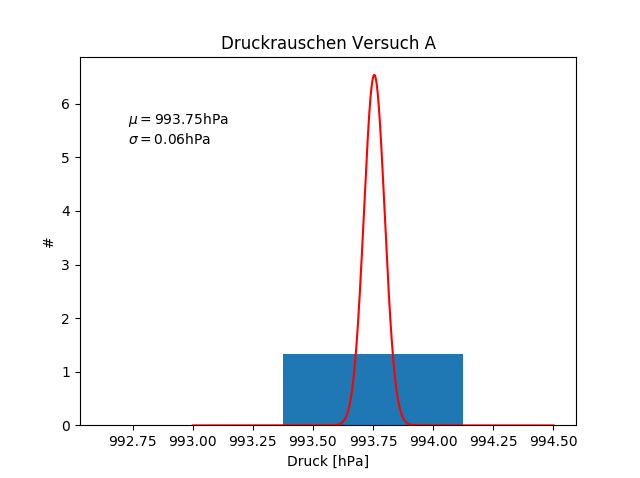
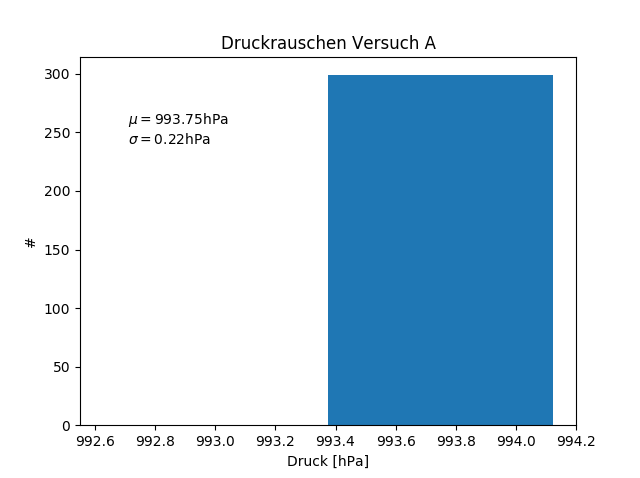
Update Rauschmessung, Kalibration

diff --git a/Thermodynamik/Dampfdruckkurve.tex b/Thermodynamik/Dampfdruckkurve.tex
@@ -74,9 +74,12 @@ Im Hauptversuch wird bei geöffnetem Auslass das Wasser im Glaskolben bis zum Si
 Am Ende des Messvorgangs lässt man das Wasser weiter bis auf Raumtemperatur abkühlen und führt gegebenenfalls eine zweite Dichtigkeitsmessung durch, um sich davon zu überzeugen, dass die Undichtigkeit des Aufbaus während des Versuchs nicht gestiegen ist. 
 
 \section{Versuchsauswertung}
+Der Versuch wurde von zwei Teilgruppen unabhängig voneinander durchgeführt. Im folgenden werden diese mit "Versuch A" und "Versuch B" bezeichnet und einzeln ausgewertet 
+
 \subsection{Versuch A}
 
 \subsubsection{Rauschmessung}
+
 \begin{figure}[H]
 \includegraphics[scale=0.5]{Bilder/DruckrauschenA}
 \includegraphics[scale=0.5]{Bilder/TemprauschenA}
@@ -84,13 +87,13 @@ Am Ende des Messvorgangs lässt man das Wasser weiter bis auf Raumtemperatur abk
 \label{fig:RauschenA}
 \end{figure}
 
-\begin{table}
+\begin{table}[H]
 \begin{center}
 \begin{tabular}{|c|c|c|}
 \hline
 - & $\mu$ & $\sigma$\\
 \hline
-Druck & 993.75 & 0.006\\
+Druck & 993.75 & 0.22\\
 \hline
 Temperatur & 2.12 & 0.12\\
 \hline
@@ -100,10 +103,17 @@ Temperatur & 2.12 & 0.12\\
 \end{center}
 \end{table}
 
-Die Ergebnisse der Rauschmessungen sind in Abb. \ref{fig:RauschenA} und Tab. \ref{tab:RauschenA} dargestellt.
+Die Ergebnisse der Rauschmessungen sind in Abb. \ref{fig:RauschenA} und Tab. \ref{tab:RauschenA} dargestellt.\\
+Dabei wurde der Fehler auf das Druckrauschen durch eine Gleichverteilung bestimmt:
+\begin{equation}
+\sigma_p =\dfrac{0.75}{\sqrt{12}} = 0.22hPa
+\end{equation}
+
+Der Fehler auf die Temperatur folgt aus der Gaußverteilung als Standardabweichung.
+
 
 \subsubsection{Kalibrierung des Temperatursensors}
-Bei jeweils 0C und 100C wurde eine Rauschmessung der Temperatur durchgeführt. Die Ergebnisse sind in Tabelle \ref{tab:KaliA} aufgeführt.
+Bei jeweils 0C und 100C wurde eine Rauschmessung der Temperatur durchgeführt. Da am Versuchstag nicht Normaldruck, sondern ein Druck von 1005hPa geherrscht hat, muss die Siedetemperatur noch auf 99.72C korrigiert werden. Die Ergebnisse sind in Tabelle \ref{tab:KaliA} aufgeführt. Die angegebenen Fehler sind die Fehler des Mittelwertes.
 
 \begin{table}[H]
 \begin{center}
@@ -111,9 +121,9 @@ Bei jeweils 0C und 100C wurde eine Rauschmessung der Temperatur durchgeführt. D
 \hline 
 $T_{erwartet}[C]$ & $T_{gemessen}[C]$ \\ 
 \hline 
-$0$ & $2.12\pm0.12$ \\ 
+$0$ & $2.121\pm0.007$ \\ 
 \hline 
-$100$ & $99.39\pm0.14$ \\ 
+$99.72$ & $99.39\pm0.01$ \\ 
 \hline 
 \end{tabular}
 \caption[Ergebnisse Kalibrierung A]{Ergebnisse Kalibrierung A} 
@@ -133,17 +143,34 @@ Anmerkung: Die Fehler auf den Messungen sind sehr klein und deswegen hier nicht 
 \end{figure}
 
 
-Die Kalibrierung (Abb.\ref{fig:GeradeKaliA}) hat eine Steigung von $1.028\pm 0.002$ und einen Offset von $-2.1801\pm 0.005$.\\
+Die Kalibrierung (Abb.\ref{fig:GeradeKaliA}) ergibt für die Steigung:
+\begin{equation}
+m = \dfrac{99.72}{T_{Eis}-T_{siedend}} = 1.0252
+\end{equation}
+
+\begin{equation}
+\sigma_{m} = m\cdot \sqrt{(\dfrac{\sigma_{T_{siedend}}\cdot 99.72}{(T_{siedend}-T_{Eis})^{2}})^{2}+(\dfrac{\sigma_{T_{Eis}}\cdot 99.72}{T_{siedend}-T_{Eis}})^{2}} = 0.0001
+\end{equation}
+
+\begin{equation}
+b = 99.72-m\cdot T_{siedend} = -2.1740C
+\end{equation}
+
+\begin{equation}
+\sigma_{b} = \sqrt{(\dfrac{\sigma_{m}}{m})^{2}+(\dfrac{\sigma_{T_{siedend}}}{T_{siedend}})^{2}} = 0.0003C
+\end{equation}
+
+
 Damit können die wirklichen Temperaturen berechnet werden:
 \begin{equation}
-T_{erwartet}=1.028\cdot T_{gemessen}-2.1801C
+T_{erwartet}=1.0252\cdot T_{gemessen}-2.1740C
 \end{equation}
 
 Aus der Fehlerfortpflanzung folgt der Fehler auf die Temperatur:
 \begin{equation}
-\sigma_{T}=\sqrt{\sigma_{m}^{2}+\sigma_{b}^{2}}=0.005
+\sigma_{T}=\sqrt{\left(m\cdot T_{gemessen}\cdot \sqrt{ (\dfrac{\sigma_m}{m})^{2}+(\dfrac{\sigma_T}{T})^{2}}\right)^{2}+\sigma_{b}^{2}}=0.13
 \end{equation}
-Dieser Fehler ist so klein, dass man ihn ignorieren kann.
+Wobei $\sigma_T = 0.12$ und eine Temperatur von 100C angenommen wurde.
 
 \subsubsection{Dichtigkeitsmessung}
 Eine sehr wichtige Voraussetzung für sinnvolle Ergebnisse ist, dass die Messapparatur dicht ist. Die Daten aus dem in Abschnitt \ref{sec:Aufbau und Durchfühung} erklärten Messverfahren vor dem Hauptversuch sind in Abbildung \ref{fig:DichtigkeitA} und die zugehörigen Residuen in Abbildung \ref{fig:ResiduenDichtigkeitA} zu sehen. Das Muster, dass sich in den Residuen zeigt, ist bedingt durch das Auflösungsvermögen des Drucksensor, welches eindrucksvoll anhand der Stufenform des Plots der Rohdaten zu sehen ist. \\
@@ -274,7 +301,7 @@ Es ist deutlich zu erkennen, dass die gemessenen Werte stark und ohne erkennbare
 \hline 
 Temperatur[C] & 22.99 & 0.04 \\ 
 \hline 
-Druck[hPa] & 1021.04 & 0.37\\ 
+Druck[hPa] & 1021.04 & 0.22\\ 
 \hline 
 \end{tabular}
 \caption[Tabelle Rauschenmessung B]{Ergbenisse der Rauschmessung für Versuch B}
@@ -287,7 +314,7 @@ Die Ergebnisse der Rauschmessungen für Versuch B finden sich in Abb. \ref{fig:R
 
 
 \subsubsection{Kalibrierung des Temperatursensors}
-Bei jeweils 0C und 100C wurde eine Rauschmessung der Temperatur durchgeführt. Die Ergebnisse sind in Tabelle \ref{tab:KaliB} dargestellt.
+Bei jeweils 0C und 100C wurde eine Rauschmessung der Temperatur durchgeführt. Da am Versuchstag nicht Normaldruck, sondern ein Druck von 1005hPa geherrscht hat, muss die Siedetemperatur noch auf 99.72C korrigiert werden. Die Ergebnisse sind in Tabelle \ref{tab:KaliB} aufgeführt. Die angegebenen Fehler sind die Fehler des Mittelwertes.
 
 \begin{table}[H]
 \begin{center}
@@ -295,9 +322,9 @@ Bei jeweils 0C und 100C wurde eine Rauschmessung der Temperatur durchgeführt. D
 \hline 
 $T_{erwartet}[C]$ & $T_{gemessen}[C]$ \\ 
 \hline 
-0 & $0.52 \pm 0.17$ \\ 
+0 & $0.52 \pm 0.01$ \\ 
 \hline 
-100 & $99.24\pm 0.09$ \\ 
+100 & $99.24\pm 0.005$ \\ 
 \hline 
 \end{tabular}
 \caption[Ergebnisse Kalibrierung B]{Ergebnisse Kalibrierung B}
@@ -315,17 +342,34 @@ Anm.: Die Fehler auf den Messungen sind sehr klein und deswegen hier nicht sicht
 \end{center}
 \end{figure}
 
-Die Kalibrierung hat eine Steigung von $1.013\pm 0.002$ und einen Offset von $-0.5304\pm 0.001$.\\
+Die Kalibrierung (Abb.\ref{fig:GeradeKaliA}) ergibt für die Steigung:
+\begin{equation}
+m = \dfrac{99.72}{T_{Eis}-T_{siedend}} = 1.0101
+\end{equation}
+
+\begin{equation}
+\sigma_{m} = m\cdot \sqrt{(\dfrac{\sigma_{T_{siedend}}\cdot 99.72}{(T_{siedend}-T_{Eis})^{2}})^{2}+(\dfrac{\sigma_{T_{Eis}}\cdot 99.72}{T_{siedend}-T_{Eis}})^{2}} = 0.0001
+\end{equation}
+
+\begin{equation}
+b = 99.72-m\cdot T_{siedend} = -0.5290C
+\end{equation}
+
+\begin{equation}
+\sigma_{b} = b\cdot \sqrt{(\dfrac{\sigma_{m}}{m})^{2}+(\dfrac{\sigma_{T_{siedend}}}{T_{siedend}})^{2}} = 0.0001C
+\end{equation}
+
+
 Damit können die wirklichen Temperaturen berechnet werden:
 \begin{equation}
-T_{erwartet}=1.013\cdot T_{gemessen}-0.5304
+T_{erwartet}=1.0101\cdot T_{gemessen}-0.5290C
 \end{equation}
 
 Aus der Fehlerfortpflanzung folgt der Fehler auf die Temperatur:
 \begin{equation}
-\sigma_{T}=\sqrt{\sigma_{m}^{2}+\sigma_{b}^{2}}=0.002
+\sigma_{T}=\sqrt{\left(m\cdot T_{gemessen}\cdot \sqrt{ (\dfrac{\sigma_m}{m})^{2}+(\dfrac{\sigma_T}{T})^{2}}\right)^{2}+\sigma_{b}^{2}}=0.05
 \end{equation}
-Dieser Fehler ist so klein, dass man ihn ignorieren kann.
+Wobei $\sigma_T = 0.04$ und eine Temperatur von 100C angenommen wurde
 
 \subsubsection{Dichtigkeitsmessung}
 Die Daten aus dem in Abschnitt \ref{sec:Aufbau und Durchfühung} erklärten Messverfahren vor dem Hauptversuch sind in Abbildung \ref{fig:DichtigkeitB} und die zugehörigen Residuen in Abbildung \ref{fig:ResiduenDichtigkeitB} zu sehen. Das Muster, dass sich in den Residuen zeigt, ist bedingt durch das Auflösungsvermögen des Drucksensor, welches eindrucksvoll anhand der Stufenform des Plots der Rohdaten zu sehen ist. \\

diff --git a/Thermodynamik/Python/Kalibration.py b/Thermodynamik/Python/Kalibration.py
@@ -10,32 +10,36 @@ import numpy as np
 import timeit
 from pylab import *
 import matplotlib.pyplot as plt
+import Rauschmessung
 
 start_time=timeit.default_timer()
 
 #Lese alle Datensätze ein
 M_S_1 = p.lese_lab_datei('lab/Temperatur_Eiswasser.lab')
+#M_S_1 = p.lese_lab_datei('CASSY/Rauschmessungen.lab')
 T_E = M_S_1[:, 2]
+#T_E = M_S_1[:, 3]
 
 M_S_2 = p.lese_lab_datei('lab/Temperatur_siedend.lab')
+#M_S_2 = p.lese_lab_datei('CASSY/Temperatur_siedend.lab')
 T_S = M_S_2[:, 2]
+#T_S = M_S_2[:, 3]
+
 T_S = T_S[730:]
 
 def func(T_E, T_S):
     #Mittelwert und Standardabweichung für Temperaturen
-    T_E_mw = np.mean(T_E)
-    T_E_std = np.std(T_E)
-    T_S_mw = np.mean(T_S)
-    T_S_std = np.std(T_S)
-    print T_E_mw,T_E_std
-    print T_S_mw,T_S_std
+    T_E_mw,x,T_E_std = Rauschmessung.mean(T_E)
+    T_S_mw,x,T_S_std = Rauschmessung.mean(T_S)
+    print np.round(T_E_mw,3),np.round(T_E_std,3)
+    print np.round(T_S_mw,3),np.round(T_S_std,3)
     
     #Bestimme Steigung und Offset
-    m = 100/(T_S_mw - T_E_mw)
-    T_0 = 100 - m * T_S_mw
+    m = 99.72/(T_S_mw - T_E_mw)
+    T_0 = 99.72 - m * T_S_mw
 
     #Bestimme Fehler auf Steigung und Offset
-    sig_m = np.sqrt(((T_S_std*100)/(T_S_mw - T_E_mw)**2)**2 + ((T_E_std*100)/(T_S_mw - T_E_mw)**2)**2)
+    sig_m = m * np.sqrt(((T_S_std*99.72)/(T_S_mw - T_E_mw)**2)**2 + ((T_E_std*99.72 )/(T_S_mw - T_E_mw)**2)**2)
     sig_T_0 = T_0 * np.sqrt((sig_m/m)**2 + (T_S_std/T_S_mw)**2)
     return m, sig_m, T_0, sig_T_0
 
@@ -57,7 +61,7 @@ def graphen():
     plt.xlabel('T(gemessen)/C')
     plt.ylabel('T(erwartet)/C')
     plt.title('Temperatur')
-    plt.figtext(0.2,0.7,'Steigung: '+ str(np.round(m,3)) + ' +/- '+ str(np.round(sig_m,3))+'\n'
-                +'Offset: '+ str(np.round(T_0,3)) + ' +/- '+str(np.round(sig_T_0,3)))
+    plt.figtext(0.2,0.7,'Steigung: '+ str(np.round(m,4)) + ' +/- '+ str(np.round(sig_m,4))+'\n'
+                +'Offset: '+ str(np.round(T_0,4)) + ' +/- '+str(np.round(sig_T_0,4)))
     
 graphen()

diff --git a/Thermodynamik/Python/Histogramme.py b/Thermodynamik/Python/Histogramme.py
@@ -27,12 +27,13 @@ def gauss(x,m,s):
 
 #druck a
 m_a_druck,s_a_druck=stat(druck_a)
+s_a_druck = 0.22
 x=np.linspace(993,994.5,1000)
 bins_a_druck=np.arange(993-0.375,995.25-0.375,0.75)
 plt.figure(1)
-plt.hist(druck_a,bins=bins_a_druck,normed=True)
+plt.hist(druck_a,bins=bins_a_druck)
 #plt.xticks()
-plt.plot(x,gauss(x,m_a_druck,s_a_druck),color='red')
+#plt.plot(x,gauss(x,m_a_druck,s_a_druck),color='red')
 plt.xlabel('Druck [hPa]')
 plt.ylabel('#')
 plt.title('Druckrauschen Versuch A')
@@ -45,7 +46,7 @@ m_a_temp,s_a_temp=stat(temp_a)
 x=np.linspace(1.5,3,1000)
 bins_a_temp=np.arange(1.5,2.75,0.1)
 plt.figure(2)
-plt.hist(temp_a,bins=bins_a_temp,normed=True)
+plt.hist(temp_a,bins=bins_a_temp)
 plt.plot(x,gauss(x,m_a_temp,s_a_temp),color='red')
 plt.xlabel('Temperatur [C]')
 plt.ylabel('#')
@@ -57,15 +58,16 @@ plt.figtext(0.2,0.7,
 
 #druck b
 m_b_druck,s_b_druck=stat(druck_b)
+s_b_druck = 0.22
 x=np.linspace(1020,1022.5,1000)
 bins_b_druck=np.arange(1020-0.375,1023.75-0.375,0.75)
 plt.figure(3)
-plt.hist(druck_b,bins=bins_b_druck,normed=True)
-plt.plot(x,gauss(x,m_b_druck,s_b_druck),color='red')
+plt.hist(druck_b,bins=bins_b_druck)
+#plt.plot(x,gauss(x,m_b_druck,s_b_druck),color='red')
 plt.xlabel('Druck [hPa]')
 plt.ylabel('#')
 plt.title('Druckrauschen Versuch B')
-plt.figtext(0.2,0.7,
+plt.figtext(0.15,0.7,
             '\n$\mu=$'+str(np.round(m_b_druck,2))+'hPa\n'
             +'$\sigma=$'+str(np.round(s_b_druck,2))+'hPa')
 
